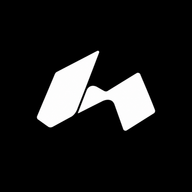
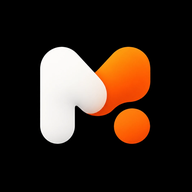
로고를 새 마크로 바꾼다 — 흰 M 의 팔이 주황으로 이어지고 점이 찍힌다
원본(docs/brand)에서 바탕을 걷어낸 투명 마크와 색으로 나눈 세 층, PWA 아이콘을 만든다.
등장 순서는 새 모양대로: M 은 왼쪽에서, 주황 팔은 오른쪽에서 만나고, 점이 제자리에서 찍힌다.
screen 블렌드 우회는 투명 PNG 라 필요 없다.

Changed region(s): [[0.1875, 0.2188, 0.8125, 0.75]]

diff --git a/apps/web/components/ui/logo.tsx b/apps/web/components/ui/logo.tsx
@@ -4,27 +4,23 @@ import { motion, useReducedMotion } from 'motion/react'
 import { ease, tween } from '@/lib/motion/tokens'
 
 /**
- * MIRO 심볼 — 기울어진 큰 판과 작은 판을 잇는 가교. 원본 마크 그대로 쓴다 (public/logo-mark.png).
- * 검정 바탕이 남은 판이어도 screen 블렌드로 어두운 배경에 녹는다.
+ * MIRO 심볼 — 흰 M 의 오른팔이 주황으로 이어지고, 그 아래 주황 점 하나. 원본은 docs/brand/logo-mark-source.webp,
+ * public/logo-mark.png 는 거기서 바탕을 걷어낸 투명 정사각형이다(같은 스크립트로 layer·아이콘도 만든다).
  */
 export function LogoMark({ size = 28, label = 'MIRO' }: { size?: number; label?: string }) {
   // eslint-disable-next-line @next/next/no-img-element
-  return <img src="/logo-mark.png" alt={label} width={size} height={size} style={{ width: size, height: size, mixBlendMode: 'screen', display: 'block' }} />
+  return <img src="/logo-mark.png" alt={label} width={size} height={size} style={{ width: size, height: size, display: 'block' }} />
 }
 
-/* 두 판 사이의 사선을 따라 자른다: (60%,0) → (26.7%,100%) */
-const LEFT = 'polygon(0 0, 60% 0, 26.7% 100%, 0 100%)'
-const RIGHT = 'polygon(60% 0, 100% 0, 100% 100%, 26.7% 100%)'
-
-/** 붙었다가 다시 벌어지는 거리. 원래 마크의 간격(폭의 약 14%)의 절반만 좁힌다 — 더 붙이면 두 판이 뭉개진다. */
-const JOIN_RATIO = 0.07
+/** 점의 중심(캔버스 기준 %) — 점은 제자리에서 커져야 한다. 마크를 다시 만들면 같이 갱신한다. */
+const DOT_ORIGIN = '80.7% 76.2%'
 
 type Phase = 'hidden' | 'join' | 'open'
 
 /**
- * Launch sequence (DESIGN §22): 검은 화면 → 두 판이 양쪽에서 → 서로 붙어 하나 → 가운데가 벌어지며 세계가 열림.
- * 세 단계는 차례로 일어나야 한다 — 한 번에 두 variant 를 주면 마지막 값이 이겨서 '붙는' 순간이 사라진다.
- * reduce-motion 이면 마지막 프레임만.
+ * Launch sequence (DESIGN §22): 검은 화면 → 흰 M 은 왼쪽에서, 주황 팔은 오른쪽에서 → 서로 만나 하나 → 점이 찍히며 세계가 열림.
+ * 세 단계는 차례로 일어나야 한다 — 한 번에 두 variant 를 주면 마지막 값이 이겨서 '만나는' 순간이 사라진다.
+ * 마크는 색으로 나눈 세 층(logo-m · logo-s · logo-d)이다. reduce-motion 이면 마지막 프레임만.
  */
 export function LogoIntro({ onDone, size = 156 }: { onDone?: () => void; size?: number }) {
   const reduce = useReducedMotion()
@@ -32,26 +28,32 @@ export function LogoIntro({ onDone, size = 156 }: { onDone?: () => void; size?: 
 
   useEffect(() => {
     if (reduce) { onDone?.(); return }
-    setPhase('join')                                   // 마운트 직후: 양쪽에서 들어와 붙는다
-    const t = setTimeout(() => setPhase('open'), 1150) // 붙은 채로 잠시 머문 뒤 열린다
+    setPhase('join')                                   // 마운트 직후: 양쪽에서 들어와 만난다
+    const t = setTimeout(() => setPhase('open'), 1000) // 만난 채로 잠시 머문 뒤 점이 찍힌다
     return () => clearTimeout(t)
-    // onDone 은 열림이 끝날 때 한 번만 (onAnimationComplete)
+    // onDone 은 점이 찍힌 뒤 한 번만 (onAnimationComplete)
   }, [reduce])                                          // eslint-disable-line react-hooks/exhaustive-deps
 
-  const join = size * JOIN_RATIO
-  const piece = (dir: -1 | 1, clip: string) => ({
-    hidden: { opacity: 0, x: dir * size * 0.55, clipPath: clip },
-    join: { opacity: 1, x: -dir * join, clipPath: clip, transition: { duration: 0.72, ease: ease.enter } },
-    open: { opacity: 1, x: 0, clipPath: clip, transition: { duration: 0.62, ease: ease.enter } },
+  const piece = (dir: -1 | 1) => ({
+    hidden: { opacity: 0, x: dir * size * 0.5 },
+    join: { opacity: 1, x: 0, transition: { duration: 0.72, ease: ease.enter } },
+    open: { opacity: 1, x: 0 },
   })
-  const img: React.CSSProperties = { position: 'absolute', inset: 0, backgroundImage: 'url(/logo-mark.png)', backgroundSize: '100% 100%', mixBlendMode: 'screen' }
+  const dot = {
+    hidden: { opacity: 0, scale: 0 },
+    join: { opacity: 0, scale: 0 },
+    open: { opacity: 1, scale: 1, transition: { duration: 0.5, ease: ease.enter } },
+  }
+  const layer = (file: string): React.CSSProperties => ({ position: 'absolute', inset: 0, backgroundImage: `url(${file})`, backgroundSize: '100% 100%' })
 
   return (
     <motion.div role="img" aria-label="MIRO" initial={reduce ? false : 'hidden'} animate={phase}
       onAnimationComplete={(d) => { if (d === 'open') onDone?.() }}
       style={{ position: 'relative', width: size, height: size }}>
-      <motion.div aria-hidden variants={piece(-1, LEFT)} style={img} />
-      <motion.div aria-hidden variants={piece(1, RIGHT)} style={img} />
+      {/* 주황 팔이 아래, 흰 M 이 위 — 원본에서 팔이 M 뒤로 들어간다. 순서를 바꾸면 이음매가 드러난다. */}
+      <motion.div aria-hidden variants={piece(1)} style={layer('/logo-s.png')} />
+      <motion.div aria-hidden variants={piece(-1)} style={layer('/logo-m.png')} />
+      <motion.div aria-hidden variants={dot} style={{ ...layer('/logo-d.png'), transformOrigin: DOT_ORIGIN }} />
       <motion.span aria-hidden className="t-micro"
         variants={{ hidden: { opacity: 0 }, join: { opacity: 0 }, open: { opacity: 1, transition: { ...tween.enter, delay: 0.3 } } }}
         style={{ position: 'absolute', top: '100%', left: 0, right: 0, textAlign: 'center', marginTop: 14, letterSpacing: '0.34em', color: 'var(--color-text-secondary)' }}>MIRO</motion.span>

diff --git a/docs/DESIGN.md b/docs/DESIGN.md
@@ -618,11 +618,14 @@ App Launch에서 로고를 활용할 수 있다.
 ### Sequence
 
 1. Black Screen
-2. 흰색의 두 조각 등장
+2. 흰 M 은 왼쪽에서, 주황 팔은 오른쪽에서 등장
 3. 서로 가까워짐
 4. 하나의 Logo 완성
-5. 중앙 공간이 벌어짐
+5. 주황 점이 제자리에서 찍힘
 6. Character World가 Reveal
+
+마크 원본은 `docs/brand/logo-mark-source.webp`. `apps/web/public` 의 `logo-mark.png`(투명 정사각형)와
+세 층(`logo-m` 흰 몸통 · `logo-s` 주황 팔 · `logo-d` 주황 점), PWA 아이콘은 모두 거기서 만든다.
 
 이 Motion은 다음 메시지를 가진다.
 
